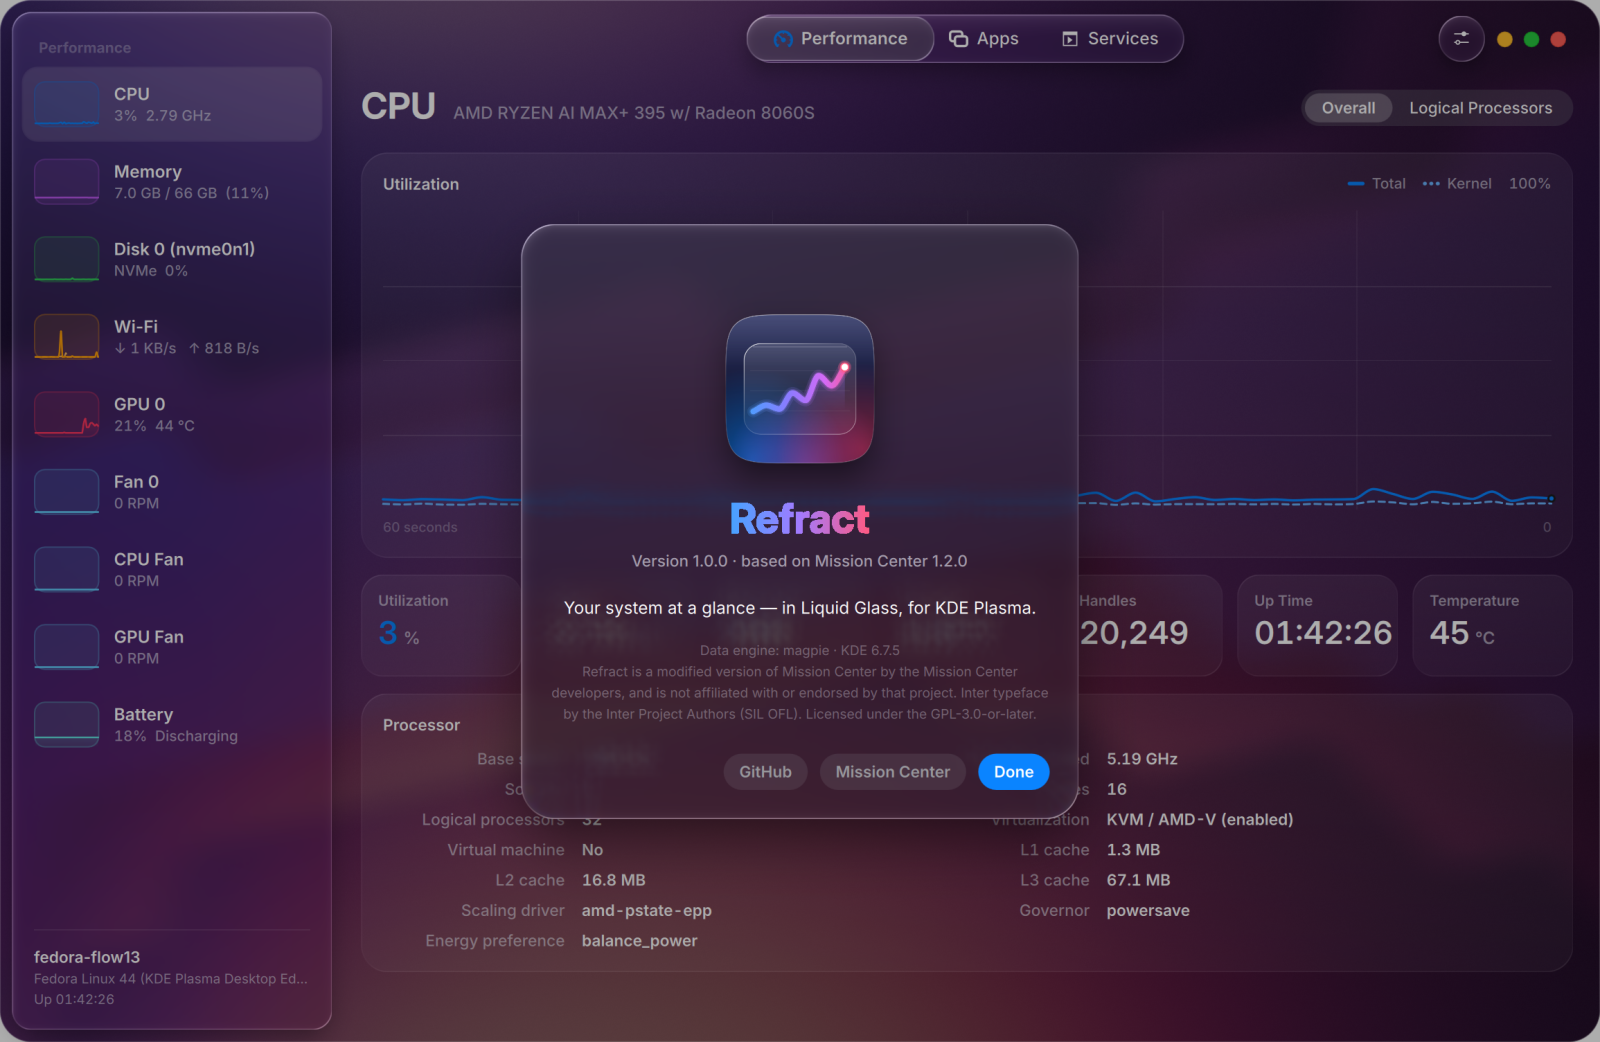
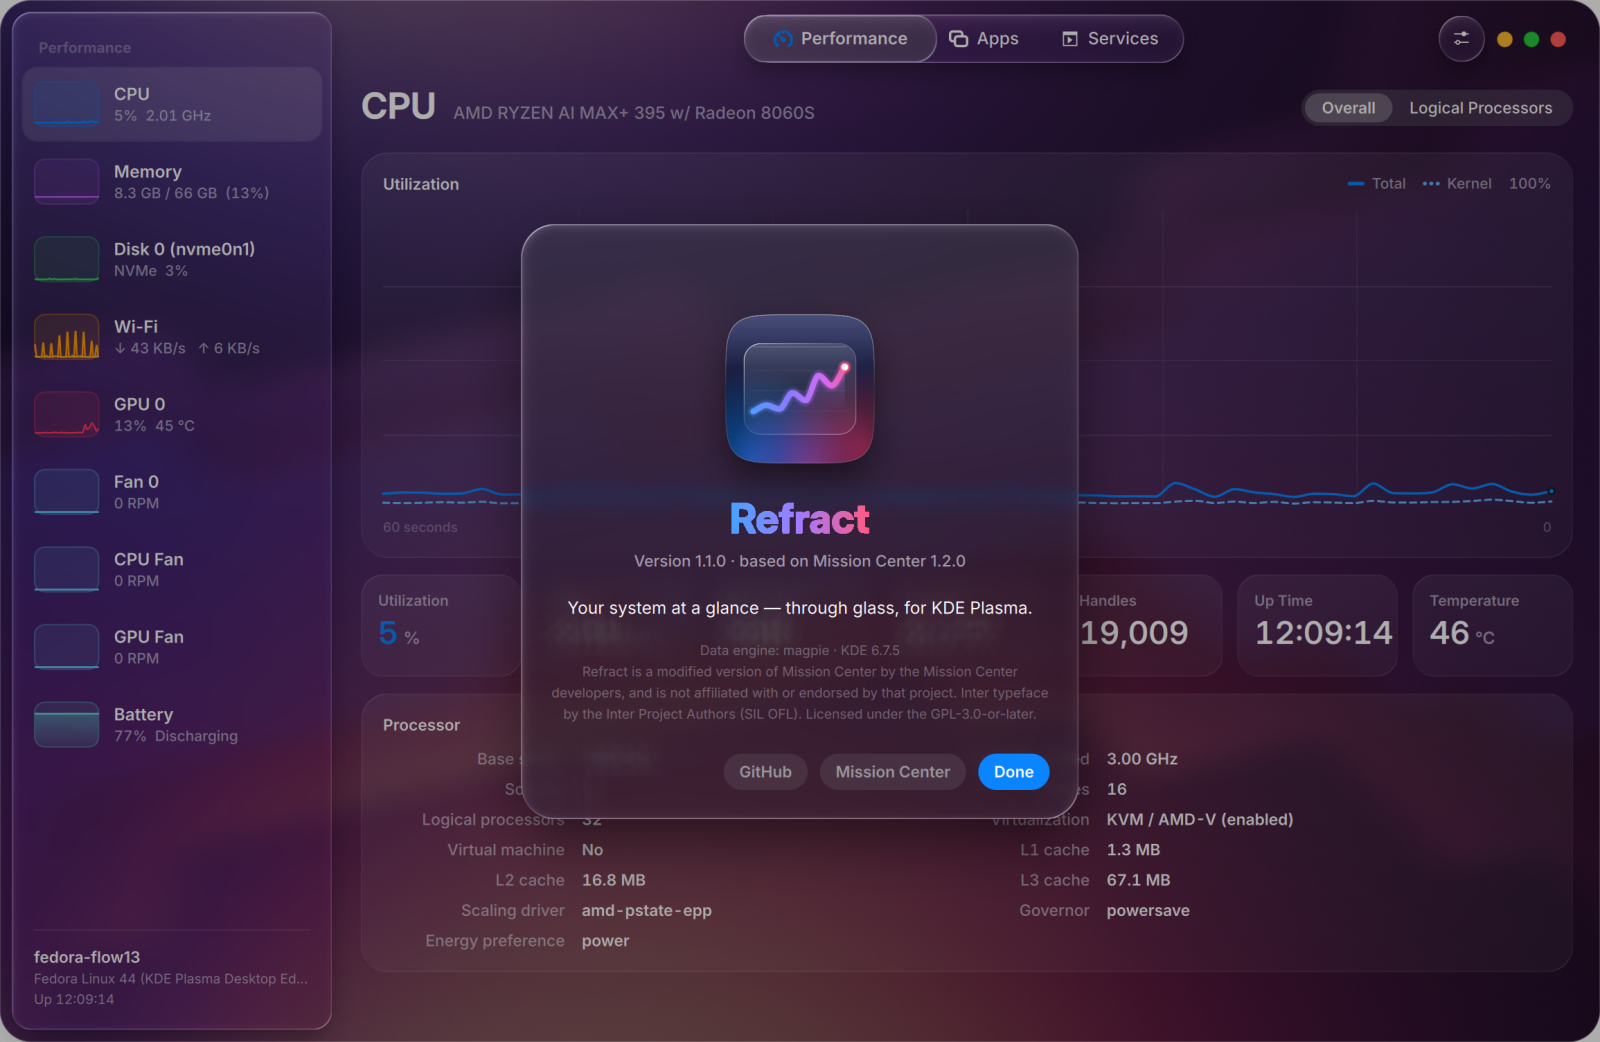
Stop using Apple's "Liquid Glass" name
"Liquid Glass" is Apple's name for its design language, and "designed the
way Apple would have made it" suggests an association that doesn't exist.
Either could cause trademark trouble, on Flathub or elsewhere. Say "glass"
instead: the tagline is now "Your system at a glance — through glass, for
KDE Plasma.", the Settings row is "Glass style", and the AppStream summary
is "Monitor your system through glass". The banner, social preview and
README screenshots are regenerated, and AGENTS.md now has a rule against
Apple trademarks in user-facing text.

diff --git a/kde/refract/qml/Refract/SettingsSheet.qml b/kde/refract/qml/Refract/SettingsSheet.qml
@@ -145,7 +145,7 @@ Sheet {
                     }
                 }
                 SettingRow {
-                    label: "Liquid Glass"
+                    label: "Glass style"
                     hint: "Clear shows more of what's behind; Tinted adds contrast"
                     PillSegmented {
                         model: [{ key: "0", title: "Clear" }, { key: "1", title: "Tinted" }]

diff --git a/kde/refract/qml/Refract/AboutSheet.qml b/kde/refract/qml/Refract/AboutSheet.qml
@@ -100,7 +100,7 @@ Sheet {
             width: parent.width
             horizontalAlignment: Text.AlignHCenter
             wrapMode: Text.WordWrap
-            text: "Your system at a glance — in Liquid Glass, for KDE Plasma."
+            text: "Your system at a glance — through glass, for KDE Plasma."
             font.pixelSize: 14
             color: Theme.label
         }

diff --git a/kde/refract/qml/Refract/Theme.qml b/kde/refract/qml/Refract/Theme.qml
@@ -2,8 +2,8 @@ pragma Singleton
 import QtQuick
 
 // Design tokens. Colours follow Apple's system palette (dark/light variants),
-// the geometry follows the Liquid Glass guidelines: concentric corner radii,
-// generous insets, capsule controls.
+// the geometry uses concentric corner radii, generous insets and capsule
+// controls.
 QtObject {
     id: theme
 

diff --git a/kde/refract/qml/Refract/Main.qml b/kde/refract/qml/Refract/Main.qml
@@ -177,7 +177,7 @@ ApplicationWindow {
     }
 
     // =====================================================================
-    // Navigation layer (Liquid Glass)
+    // Navigation layer (glass)
     // =====================================================================
 
     // Title-bar band: drag to move, double-click to zoom.

diff --git a/kde/refract/qml/Refract/GlassSurface.qml b/kde/refract/qml/Refract/GlassSurface.qml
@@ -1,7 +1,7 @@
 import QtQuick
 import QtQuick.Effects
 
-// Liquid Glass: the navigation-layer material. It refracts and frosts the
+// Glass: the navigation-layer material. It refracts and frosts the
 // layered scene (Theme.glassSource) that sits behind it. Put it *outside*
 // that scene – glass never samples itself.
 Item {

diff --git a/kde/refract/qml/Refract/SegmentedControl.qml b/kde/refract/qml/Refract/SegmentedControl.qml
@@ -1,7 +1,7 @@
 import QtQuick
 import org.kde.kirigami as Kirigami
 
-// Liquid Glass segmented control. The selection is a clear glass lens that
+// Glass segmented control. The selection is a clear glass lens that
 // springs between segments and swells while it moves, like the tab bars in
 // iOS/macOS 26.
 GlassSurface {

diff --git a/kde/refract/qml/Refract/GlassSearchField.qml b/kde/refract/qml/Refract/GlassSearchField.qml
@@ -1,7 +1,7 @@
 import QtQuick
 import org.kde.kirigami as Kirigami
 
-// Capsule search field in Liquid Glass; widens while focused.
+// Capsule search field in glass; widens while focused.
 GlassSurface {
     id: field
 

diff --git a/kde/refract/qml/Refract/GlassButton.qml b/kde/refract/qml/Refract/GlassButton.qml
@@ -1,7 +1,7 @@
 import QtQuick
 import org.kde.kirigami as Kirigami
 
-// A round (or capsule, when it has text) Liquid Glass button.
+// A round (or capsule, when it has text) glass button.
 GlassSurface {
     id: btn
 

diff --git a/kde/refract/qml/Refract/Sheet.qml b/kde/refract/qml/Refract/Sheet.qml
@@ -1,7 +1,7 @@
 import QtQuick
 import QtQuick.Controls.Basic
 
-// A modal Liquid Glass sheet that springs in from slightly below.
+// A modal glass sheet that springs in from slightly below.
 Popup {
     id: sheet
 

diff --git a/kde/refract/qml/Refract/GlassMenu.qml b/kde/refract/qml/Refract/GlassMenu.qml
@@ -2,7 +2,7 @@ import QtQuick
 import QtQuick.Controls.Basic
 import org.kde.kirigami as Kirigami
 
-// Context menu made of Liquid Glass.
+// Context menu made of glass.
 Popup {
     id: menu
 

diff --git a/kde/refract/app.py b/kde/refract/app.py
@@ -24,7 +24,7 @@ APP_ID = "io.github.RobbyBobby77.Refract"
 
 
 def parse_args(argv: list[str]) -> argparse.Namespace:
-    p = argparse.ArgumentParser(prog="refract", description="Refract: your system at a glance, in Liquid Glass.")
+    p = argparse.ArgumentParser(prog="refract", description="Refract: your system at a glance, through glass.")
     p.add_argument("--page", choices=["performance", "apps", "services"], help="page to open")
     p.add_argument("--device", help="performance device key to select, e.g. memory, disk:nvme0n1")
     p.add_argument("--theme", choices=["system", "light", "dark"], help="override the colour scheme")

diff --git a/kde/tools/screenshots.py b/kde/tools/screenshots.py
@@ -5,7 +5,7 @@
     python3 tools/screenshots.py light    # memory, settings
 
 Uses KDE's own "Nuvole" wallpaper (LGPL, ships with Plasma) in Wallpaper mode
-so the Liquid Glass shows, and a throwaway config dir so the user's
+so the glass shows, and a throwaway config dir so the user's
 preferences are neither used nor changed. Graphs need about a minute of
 history, so each run takes ~80 s.
 """
